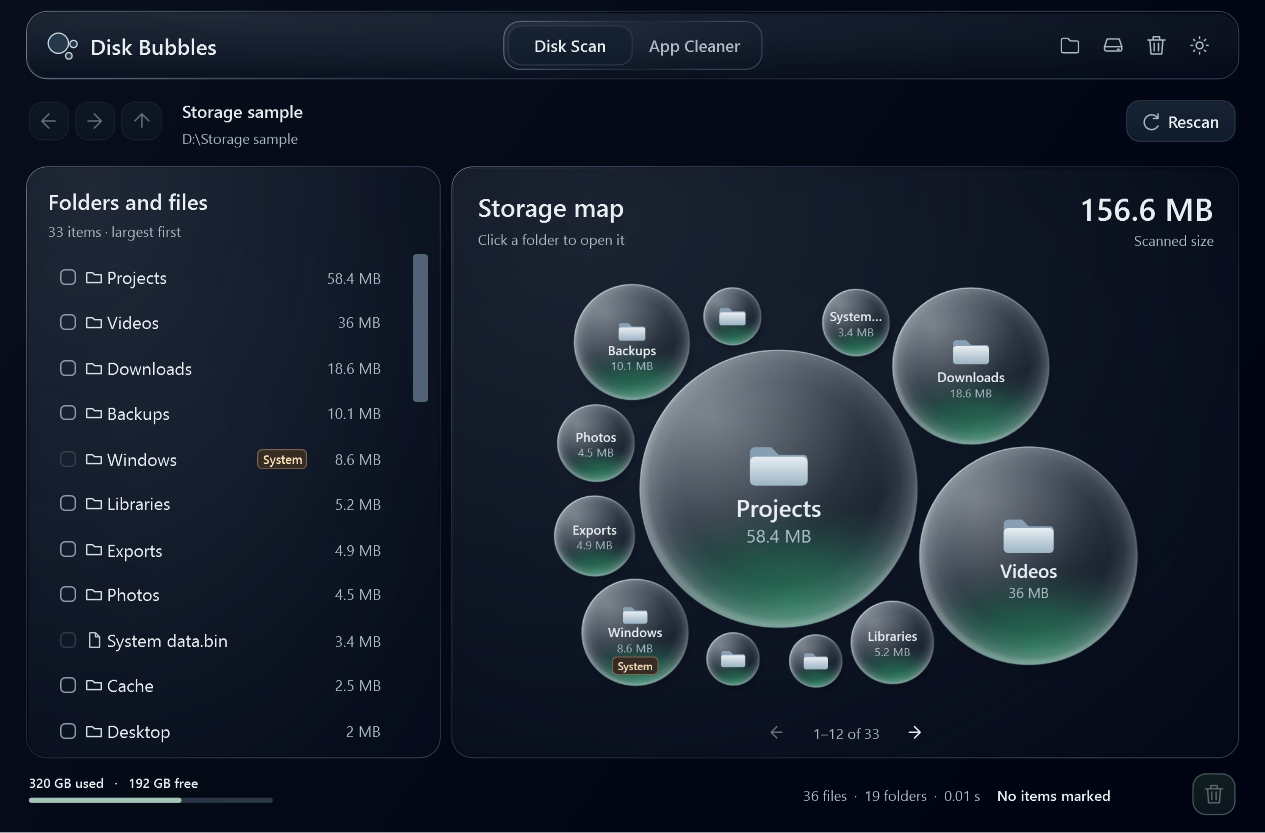
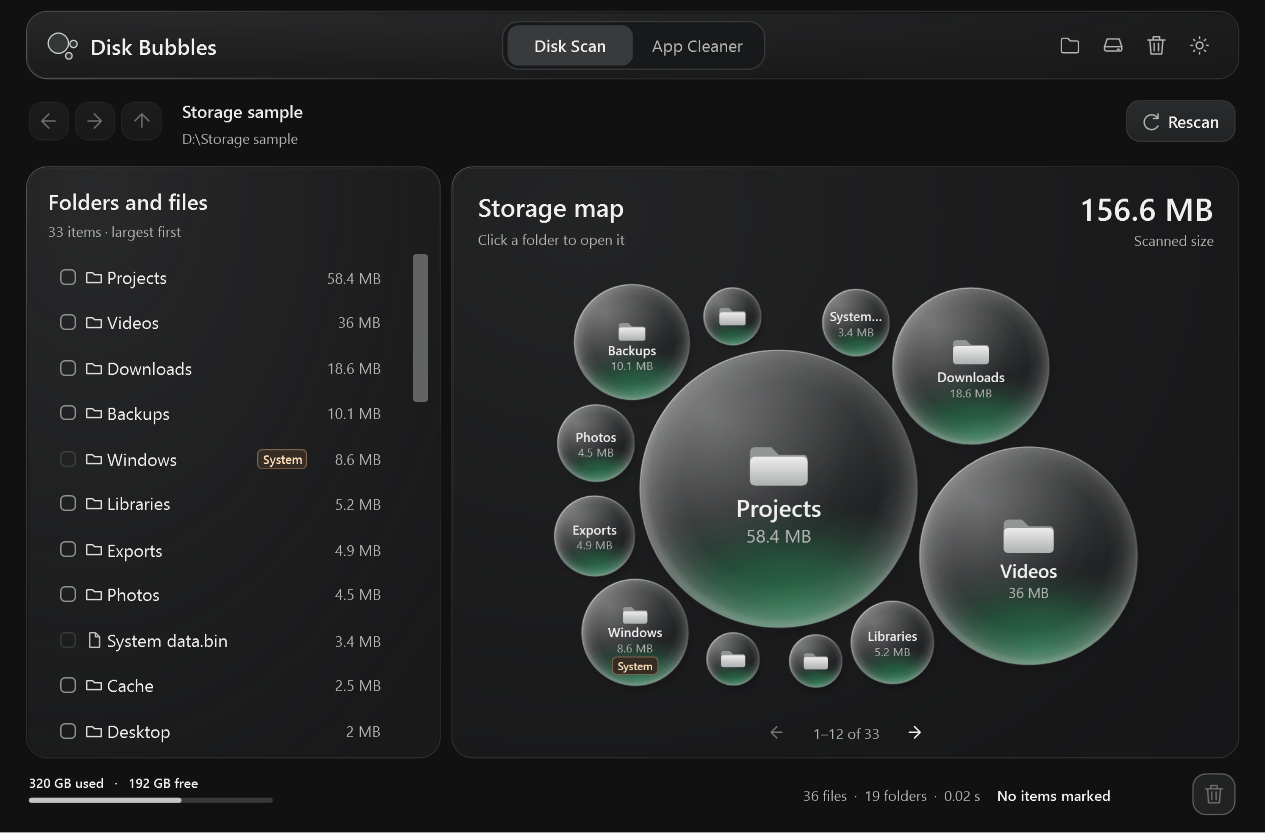
fix: simplify mode tabs and neutralize the dark palette

diff --git a/src/DiskBubbles/Dark.xaml b/src/DiskBubbles/Dark.xaml
@@ -1,72 +1,64 @@
 <ResourceDictionary xmlns="http://schemas.microsoft.com/winfx/2006/xaml/presentation"
                     xmlns:x="http://schemas.microsoft.com/winfx/2006/xaml">
-  <SolidColorBrush x:Key="Ink" Color="#E8EEF2" />
-  <SolidColorBrush x:Key="Muted" Color="#ACBAC7" />
-  <SolidColorBrush x:Key="Subtle" Color="#8D9EAD" />
-  <SolidColorBrush x:Key="Line" Color="#2A3545" />
-  <SolidColorBrush x:Key="Base" Color="#000412" />
+  <SolidColorBrush x:Key="Ink" Color="#F0F0F0" />
+  <SolidColorBrush x:Key="Muted" Color="#B3B4B4" />
+  <SolidColorBrush x:Key="Subtle" Color="#919393" />
+  <SolidColorBrush x:Key="Line" Color="#363839" />
+  <SolidColorBrush x:Key="Base" Color="#111112" />
+  <SolidColorBrush x:Key="Workspace" Color="#111112" />
+  <SolidColorBrush x:Key="Chart" Color="#161617" />
+  <SolidColorBrush x:Key="ModeTrack" Color="#18191A" />
+  <SolidColorBrush x:Key="ModeSelection" Color="#383A3B" />
   <SolidColorBrush x:Key="BubbleTint" Color="#2BF08A" />
-  <SolidColorBrush x:Key="Accent" Color="#A6C5B9" />
-  <SolidColorBrush x:Key="AccentInk" Color="#E8EEF2" />
+  <SolidColorBrush x:Key="Accent" Color="#C4C6C6" />
+  <SolidColorBrush x:Key="AccentInk" Color="#F0F0F0" />
+  <SolidColorBrush x:Key="AccentFill" Color="#373939" />
   <SolidColorBrush x:Key="Attention" Color="#F0C3A8" />
-  <LinearGradientBrush x:Key="AccentFill" StartPoint="0,0" EndPoint="0,1">
-    <GradientStop Offset="0" Color="#254237" />
-    <GradientStop Offset="1" Color="#172F2A" />
-  </LinearGradientBrush>
   <LinearGradientBrush x:Key="GlassEdge" StartPoint="0,0" EndPoint="0.8,1">
-    <GradientStop Offset="0" Color="#64768B" />
-    <GradientStop Offset="0.29" Color="#3A4860" />
-    <GradientStop Offset="0.69" Color="#1C2535" />
-    <GradientStop Offset="1" Color="#3B475A" />
+    <GradientStop Offset="0" Color="#565858" />
+    <GradientStop Offset="0.29" Color="#3B3D3D" />
+    <GradientStop Offset="0.69" Color="#2A2B2C" />
+    <GradientStop Offset="1" Color="#363838" />
   </LinearGradientBrush>
   <LinearGradientBrush x:Key="GlassInner" StartPoint="0.12,0" EndPoint="0.82,1">
-    <GradientStop Offset="0" Color="#28CBD7E0" />
-    <GradientStop Offset="0.32" Color="#0CCBD7E0" />
-    <GradientStop Offset="0.78" Color="#00000412" />
-    <GradientStop Offset="1" Color="#33000412" />
+    <GradientStop Offset="0" Color="#1FE0E0E0" />
+    <GradientStop Offset="0.32" Color="#0AE0E0E0" />
+    <GradientStop Offset="0.78" Color="#00111112" />
+    <GradientStop Offset="1" Color="#28111112" />
   </LinearGradientBrush>
   <LinearGradientBrush x:Key="Panel" StartPoint="0,0" EndPoint="0.72,1">
-    <GradientStop Offset="0" Color="#101927" />
-    <GradientStop Offset="1" Color="#0A1220" />
+    <GradientStop Offset="0" Color="#202122" />
+    <GradientStop Offset="1" Color="#19191A" />
   </LinearGradientBrush>
   <RadialGradientBrush x:Key="GlassPane" Center="0.16,0.04" GradientOrigin="0.16,0.04" RadiusX="1.12" RadiusY="1.15">
-    <GradientStop Offset="0" Color="#9F303A49" />
-    <GradientStop Offset="0.51" Color="#7D222D3D" />
-    <GradientStop Offset="1" Color="#51111928" />
+    <GradientStop Offset="0" Color="#9F333435" />
+    <GradientStop Offset="0.51" Color="#7D292A2B" />
+    <GradientStop Offset="1" Color="#511F2021" />
   </RadialGradientBrush>
   <RadialGradientBrush x:Key="GlassClear" Center="0.17,0.08" GradientOrigin="0.17,0.08" RadiusX="1.08" RadiusY="1.24">
-    <GradientStop Offset="0" Color="#84313A49" />
-    <GradientStop Offset="0.56" Color="#50212B3A" />
-    <GradientStop Offset="1" Color="#30131A29" />
+    <GradientStop Offset="0" Color="#84303132" />
+    <GradientStop Offset="0.56" Color="#50272829" />
+    <GradientStop Offset="1" Color="#301C1D1E" />
   </RadialGradientBrush>
   <LinearGradientBrush x:Key="Raised" StartPoint="0,0" EndPoint="0,1">
-    <GradientStop Offset="0" Color="#172334" />
-    <GradientStop Offset="1" Color="#101B2B" />
+    <GradientStop Offset="0" Color="#2A2B2C" />
+    <GradientStop Offset="1" Color="#222324" />
   </LinearGradientBrush>
-  <LinearGradientBrush x:Key="Workspace" StartPoint="0,0" EndPoint="0.93,1">
-    <GradientStop Offset="0" Color="#080E1B" />
-    <GradientStop Offset="1" Color="#000412" />
-  </LinearGradientBrush>
-  <RadialGradientBrush x:Key="Chart" Center="0.42,0.48" GradientOrigin="0.33,0.43" RadiusX="0.83" RadiusY="0.88">
-    <GradientStop Offset="0" Color="#070F1D" />
-    <GradientStop Offset="0.57" Color="#040A18" />
-    <GradientStop Offset="1" Color="#000412" />
-  </RadialGradientBrush>
 
-  <SolidColorBrush x:Key="TooltipFill" Color="#172231" />
-  <SolidColorBrush x:Key="TooltipEdge" Color="#4A5C70" />
-  <SolidColorBrush x:Key="MenuHover" Color="#1B3041" />
-  <SolidColorBrush x:Key="ScrollThumb" Color="#526375" />
-  <SolidColorBrush x:Key="ScrollHover" Color="#788A9E" />
-  <SolidColorBrush x:Key="RowHover" Color="#121D2B" />
-  <SolidColorBrush x:Key="RowLinked" Color="#102828" />
-  <SolidColorBrush x:Key="RowSelected" Color="#12352D" />
-  <SolidColorBrush x:Key="RowSelectedEdge" Color="#51A483" />
-  <SolidColorBrush x:Key="FileGlyph" Color="#BBC9D5" />
-  <SolidColorBrush x:Key="FolderGlyph" Color="#D6E2E8" />
+  <SolidColorBrush x:Key="TooltipFill" Color="#272829" />
+  <SolidColorBrush x:Key="TooltipEdge" Color="#535555" />
+  <SolidColorBrush x:Key="MenuHover" Color="#3F4141" />
+  <SolidColorBrush x:Key="ScrollThumb" Color="#626464" />
+  <SolidColorBrush x:Key="ScrollHover" Color="#858888" />
+  <SolidColorBrush x:Key="RowHover" Color="#282929" />
+  <SolidColorBrush x:Key="RowLinked" Color="#303232" />
+  <SolidColorBrush x:Key="RowSelected" Color="#333636" />
+  <SolidColorBrush x:Key="RowSelectedEdge" Color="#898C8C" />
+  <SolidColorBrush x:Key="FileGlyph" Color="#BFC0C0" />
+  <SolidColorBrush x:Key="FolderGlyph" Color="#DFDFDF" />
   <SolidColorBrush x:Key="BadgeFill" Color="#362C23" />
   <SolidColorBrush x:Key="BadgeEdge" Color="#7E644D" />
   <SolidColorBrush x:Key="BadgeInk" Color="#FFE2BC" />
-  <SolidColorBrush x:Key="LogoFill" Color="#26394A" />
-  <SolidColorBrush x:Key="LogoEdge" Color="#CADAE3" />
+  <SolidColorBrush x:Key="LogoFill" Color="#353737" />
+  <SolidColorBrush x:Key="LogoEdge" Color="#CED0D0" />
 </ResourceDictionary>

diff --git a/src/DiskBubbles/Theme.xaml b/src/DiskBubbles/Theme.xaml
@@ -106,6 +106,46 @@
     <Setter Property="Foreground" Value="{DynamicResource Muted}" />
   </Style>
 
+  <Style x:Key="ModeSegment" TargetType="Button" BasedOn="{StaticResource QuietButton}">
+    <Setter Property="FocusVisualStyle">
+      <Setter.Value>
+        <Style TargetType="Control">
+          <Setter Property="Template">
+            <Setter.Value>
+              <ControlTemplate TargetType="Control">
+                <Border Margin="3" CornerRadius="8" BorderThickness="1" BorderBrush="{DynamicResource Ink}" />
+              </ControlTemplate>
+            </Setter.Value>
+          </Setter>
+        </Style>
+      </Setter.Value>
+    </Setter>
+    <Setter Property="Template">
+      <Setter.Value>
+        <ControlTemplate TargetType="Button">
+          <Grid x:Name="Segment" Background="Transparent">
+            <Border Background="{TemplateBinding Background}" CornerRadius="10" />
+            <Border x:Name="Hover" Background="{DynamicResource Ink}" CornerRadius="10"
+                    Opacity="0" IsHitTestVisible="False" />
+            <ContentPresenter Margin="{TemplateBinding Padding}" VerticalAlignment="Center" HorizontalAlignment="Center"
+                              RecognizesAccessKey="True" />
+          </Grid>
+          <ControlTemplate.Triggers>
+            <Trigger Property="IsMouseOver" Value="True">
+              <Setter TargetName="Hover" Property="Opacity" Value="0.06" />
+            </Trigger>
+            <Trigger Property="IsPressed" Value="True">
+              <Setter TargetName="Hover" Property="Opacity" Value="0.12" />
+            </Trigger>
+            <Trigger Property="IsEnabled" Value="False">
+              <Setter TargetName="Segment" Property="Opacity" Value="0.48" />
+            </Trigger>
+          </ControlTemplate.Triggers>
+        </ControlTemplate>
+      </Setter.Value>
+    </Setter>
+  </Style>
+
   <Style x:Key="Crumb" TargetType="Button" BasedOn="{StaticResource {x:Type Button}}">
     <Setter Property="Background" Value="Transparent" />
     <Setter Property="BorderBrush" Value="Transparent" />

diff --git a/src/DiskBubbles/Light.xaml b/src/DiskBubbles/Light.xaml
@@ -11,6 +11,8 @@
   <SolidColorBrush x:Key="AccentFill" Color="#050505" />
   <SolidColorBrush x:Key="Workspace" Color="#ECE6DC" />
   <SolidColorBrush x:Key="Chart" Color="#ECE6DC" />
+  <SolidColorBrush x:Key="ModeTrack" Color="#E7E1D8" />
+  <SolidColorBrush x:Key="ModeSelection" Color="#FAF7F2" />
   <SolidColorBrush x:Key="Attention" Color="#793D29" />
   <LinearGradientBrush x:Key="GlassEdge" StartPoint="0,0" EndPoint="0.8,1">
     <GradientStop Offset="0" Color="#FFFDF8" />

diff --git a/src/DiskBubbles/BubbleMap.cs b/src/DiskBubbles/BubbleMap.cs
@@ -91,15 +91,15 @@ namespace DiskBubbles
         private static readonly Geometry FolderFront = Geometry.Parse("M 1,16 Q 1,13 4,13 L 28,13 Q 31,13 31,16 L 31,25 Q 31,28 28,28 L 4,28 Q 1,28 1,25 Z");
         private static readonly Geometry FileShape = Geometry.Parse("M 7,4 L 19,4 25,10 25,26 Q 25,28 23,28 L 9,28 Q 7,28 7,26 Z");
         private static readonly Geometry FileFold = Geometry.Parse("M 19,4 L 19,10 25,10 Z");
-        private static readonly Brush FolderFill = new LinearGradientBrush(Color.FromRgb(232, 238, 242), Color.FromRgb(157, 180, 196), 90);
-        private static readonly Brush FolderTab = new SolidColorBrush(Color.FromRgb(137, 159, 180));
-        private static readonly Brush FileFill = new LinearGradientBrush(Color.FromRgb(232, 238, 242), Color.FromRgb(160, 177, 190), 90);
-        private static readonly Brush FoldFill = new SolidColorBrush(Color.FromRgb(136, 158, 176));
+        private static readonly Brush FolderFill = new LinearGradientBrush(Color.FromRgb(236, 236, 236), Color.FromRgb(174, 177, 177), 90);
+        private static readonly Brush FolderTab = new SolidColorBrush(Color.FromRgb(148, 150, 150));
+        private static readonly Brush FileFill = new LinearGradientBrush(Color.FromRgb(236, 236, 236), Color.FromRgb(183, 185, 185), 90);
+        private static readonly Brush FoldFill = new SolidColorBrush(Color.FromRgb(151, 153, 153));
         private static readonly Brush LightFolderFill = new LinearGradientBrush(Color.FromRgb(49, 47, 46), Color.FromRgb(5, 5, 5), 90);
         private static readonly Brush LightFileFill = new LinearGradientBrush(Color.FromRgb(65, 62, 59), Color.FromRgb(22, 21, 20), 90);
         private static readonly Brush LightIconTab = new SolidColorBrush(Color.FromRgb(76, 72, 69));
-        private static readonly Brush PressShade = new SolidColorBrush(Color.FromArgb(58, 9, 10, 13));
-        private static readonly Brush DarkReflection = Glow(Color.FromArgb(44, 226, 238, 255), 0.5, 0.5);
+        private static readonly Brush PressShade = new SolidColorBrush(Color.FromArgb(58, 10, 10, 10));
+        private static readonly Brush DarkReflection = Glow(Color.FromArgb(38, 238, 238, 238), 0.5, 0.5);
         private static readonly Brush LightReflection = Glow(Color.FromArgb(74, 255, 255, 255), 0.5, 0.5);
 
         private readonly ConditionalWeakTable<DiskEntry, Layout> _cache = new ConditionalWeakTable<DiskEntry, Layout>();

diff --git a/src/DiskBubbles/MainWindow.Layout.cs b/src/DiskBubbles/MainWindow.Layout.cs
@@ -80,10 +80,11 @@ namespace DiskBubbles
             var modes = new UniformGrid { Rows = 1, Columns = 2 };
             foreach (Button button in new[] { _diskMode, _appsMode })
             {
-                button.Style = (Style)FindResource("QuietButton");
+                button.Style = (Style)FindResource("ModeSegment");
                 button.Width = 116;
                 button.MinHeight = 37;
                 button.Padding = new Thickness(10, 5, 10, 5);
+                button.Margin = new Thickness(1, 0, 1, 0);
                 modes.Children.Add(button);
             }
             _diskMode.Click += (sender, args) => ShowPage(_scan != null ? _scanning : _result == null ? _landing : _browser);
@@ -93,21 +94,16 @@ namespace DiskBubbles
                 await _appCleaner.OpenAsync();
             };
             return UiVisuals.Surface(new Border { Child = modes, Padding = new Thickness(3), CornerRadius = new CornerRadius(15),
-                BorderThickness = new Thickness(1), VerticalAlignment = VerticalAlignment.Center }, "GlassClear", "GlassEdge");
+                BorderThickness = new Thickness(1), VerticalAlignment = VerticalAlignment.Center }, "ModeTrack", "Line");
         }
 
         private static void SetActiveMode(Button button, bool selected)
         {
             if (selected)
-            {
-                button.SetResourceReference(Control.BackgroundProperty, "Raised");
-                button.SetResourceReference(Control.BorderBrushProperty, "Line");
-            }
+                button.SetResourceReference(Control.BackgroundProperty, "ModeSelection");
             else
-            {
                 button.ClearValue(Control.BackgroundProperty);
-                button.ClearValue(Control.BorderBrushProperty);
-            }
+            button.FontWeight = selected ? FontWeights.SemiBold : FontWeights.Normal;
             button.SetResourceReference(Control.ForegroundProperty, selected ? "Ink" : "Muted");
             AutomationProperties.SetItemStatus(button, selected ? "Current mode" : "");
         }

diff --git a/src/DiskBubbles/UiVisuals.cs b/src/DiskBubbles/UiVisuals.cs
@@ -166,12 +166,12 @@ namespace DiskBubbles
             {
                 _shadow = Radial(center, 0.5, 0.5, (0, 0x96000209), (0.55, 0x62000209), (1, 0x00000209));
                 _body = Linear(new Point(0.15, 0), new Point(0.67, 1),
-                    (0, 0xCC4C5967), (0.37, 0xB635414E), (0.7, 0xA525323E), (1, 0xC43C4954));
+                    (0, 0xCC515353), (0.37, 0xB6383A3A), (0.7, 0xA5282A2A), (1, 0xC43D3F3F));
                 _frost = Radial(cloudySide, 0.68, 0.63,
-                    (0, 0x65E8EEF2), (0.43, 0x35E8EEF2), (0.77, 0x0CE8EEF2), (1, 0x00E8EEF2));
+                    (0, 0x54EEEEEE), (0.43, 0x2CEEEEEE), (0.77, 0x0AEEEEEE), (1, 0x00EEEEEE));
                 _bevel = Radial(new Point(0.51, 0.48), 0.50, 0.51,
-                    (0.71, 0x00E8EEF2), (0.85, 0x13E8EEF2), (0.95, 0x36E8EEF2), (1, 0x6AE8EEF2));
-                _edge = Edge((0, 0xCFE8EEF2), (0.40, 0x7BB8CAD4), (0.74, 0x35566777), (1, 0x868F9DA8));
+                    (0.71, 0x00EEEEEE), (0.85, 0x13EEEEEE), (0.95, 0x32EEEEEE), (1, 0x58EEEEEE));
+                _edge = Edge((0, 0xB7EEEEEE), (0.40, 0x71C1C3C3), (0.74, 0x356D7070), (1, 0x7A9B9E9E));
             }
         }
 

diff --git a/tests/Verification.cs b/tests/Verification.cs
@@ -118,10 +118,10 @@ internal static class Verification
                 displayPath.Text = @"D:\Storage sample";
                 capacityLabel.Text = "320 GB used   ·   192 GB free";
                 capacityMeter.Value = 0.625;
-                Assert(((SolidColorBrush)window.Background).Color == Color.FromRgb(0, 4, 18) &&
-                    ((SolidColorBrush)window.Foreground).Color == Color.FromRgb(232, 238, 242) &&
+                Assert(((SolidColorBrush)window.Background).Color == Color.FromRgb(17, 17, 18) &&
+                    ((SolidColorBrush)window.Foreground).Color == Color.FromRgb(240, 240, 240) &&
                     ((SolidColorBrush)window.FindResource("BubbleTint")).Color == Color.FromRgb(43, 240, 138),
-                    "The dark appearance did not use midnight, ice and green glass.");
+                    "The dark appearance did not use charcoal, neutral text and green glass.");
                 await Capture(window, Path.Combine(fixture, "../preview.png"));
                 await Capture(window, Path.Combine(fixture, "../preview-2x.png"), 192);
                 setAppearance.Invoke(window, new object[] { true });

diff --git a/src/DiskBubbles/App.cs b/src/DiskBubbles/App.cs
@@ -7,9 +7,9 @@ using System.Windows;
 [assembly: AssemblyTitle("Disk Bubbles")]
 [assembly: AssemblyProduct("Disk Bubbles")]
 [assembly: AssemblyDescription("Interactive disk usage map for Windows")]
-[assembly: AssemblyVersion("10.3.6.0")]
-[assembly: AssemblyFileVersion("10.3.6.0")]
-[assembly: AssemblyInformationalVersion("10.3.6")]
+[assembly: AssemblyVersion("10.3.7.0")]
+[assembly: AssemblyFileVersion("10.3.7.0")]
+[assembly: AssemblyInformationalVersion("10.3.7")]
 [assembly: TargetFramework(".NETFramework,Version=v4.8")]
 
 namespace DiskBubbles

diff --git a/README.md b/README.md
@@ -14,7 +14,7 @@ Windows can tell you that a drive is nearly full. Figuring out which project, do
 - **Explore by size.** Click a folder in the list or on the map to open it. Hover to see its size and share of the current folder. Use the map arrows to see smaller entries, including empty ones. Back and Forward remember your scroll position and map page.
 - **Mark items as you browse.** Check files or folders anywhere in the scan. Use the trash icon at the bottom right to review everything together. The app protects critical Windows locations and verifies file identities before asking Windows to move anything.
 - **Review installed apps.** App Cleaner shows scan progress, then lists desktop and Store apps with their registered icons and measured install sizes where available. Review uninstall actions or check for folders left after a desktop uninstall.
-- **Switch between light and dark.** The bubbles catch a pink reflection in the cream theme and a green one in the midnight theme. The app remembers your choice and follows the Windows animation setting.
+- **Switch between light and dark.** The bubbles catch a pink reflection in the cream theme and a green one in the charcoal theme. The app remembers your choice and follows the Windows animation setting.
 
 ![Disk Bubbles in the cream and ink theme with frosted glass bubbles.](docs/screenshots/light.png)
 

diff --git a/CHANGELOG.md b/CHANGELOG.md
@@ -1,5 +1,10 @@
 # Changelog
 
+## 10.3.7
+
+- Give the mode switch one shared outline, with a filled active tab and an inset keyboard focus indicator.
+- Use neutral charcoal in dark mode and keep the green reflections inside the bubbles.
+
 ## 10.3.6
 
 - Give the top toolbar the same frosted glass as the results panes, and make file names, sizes, and breadcrumb labels easier to read.
